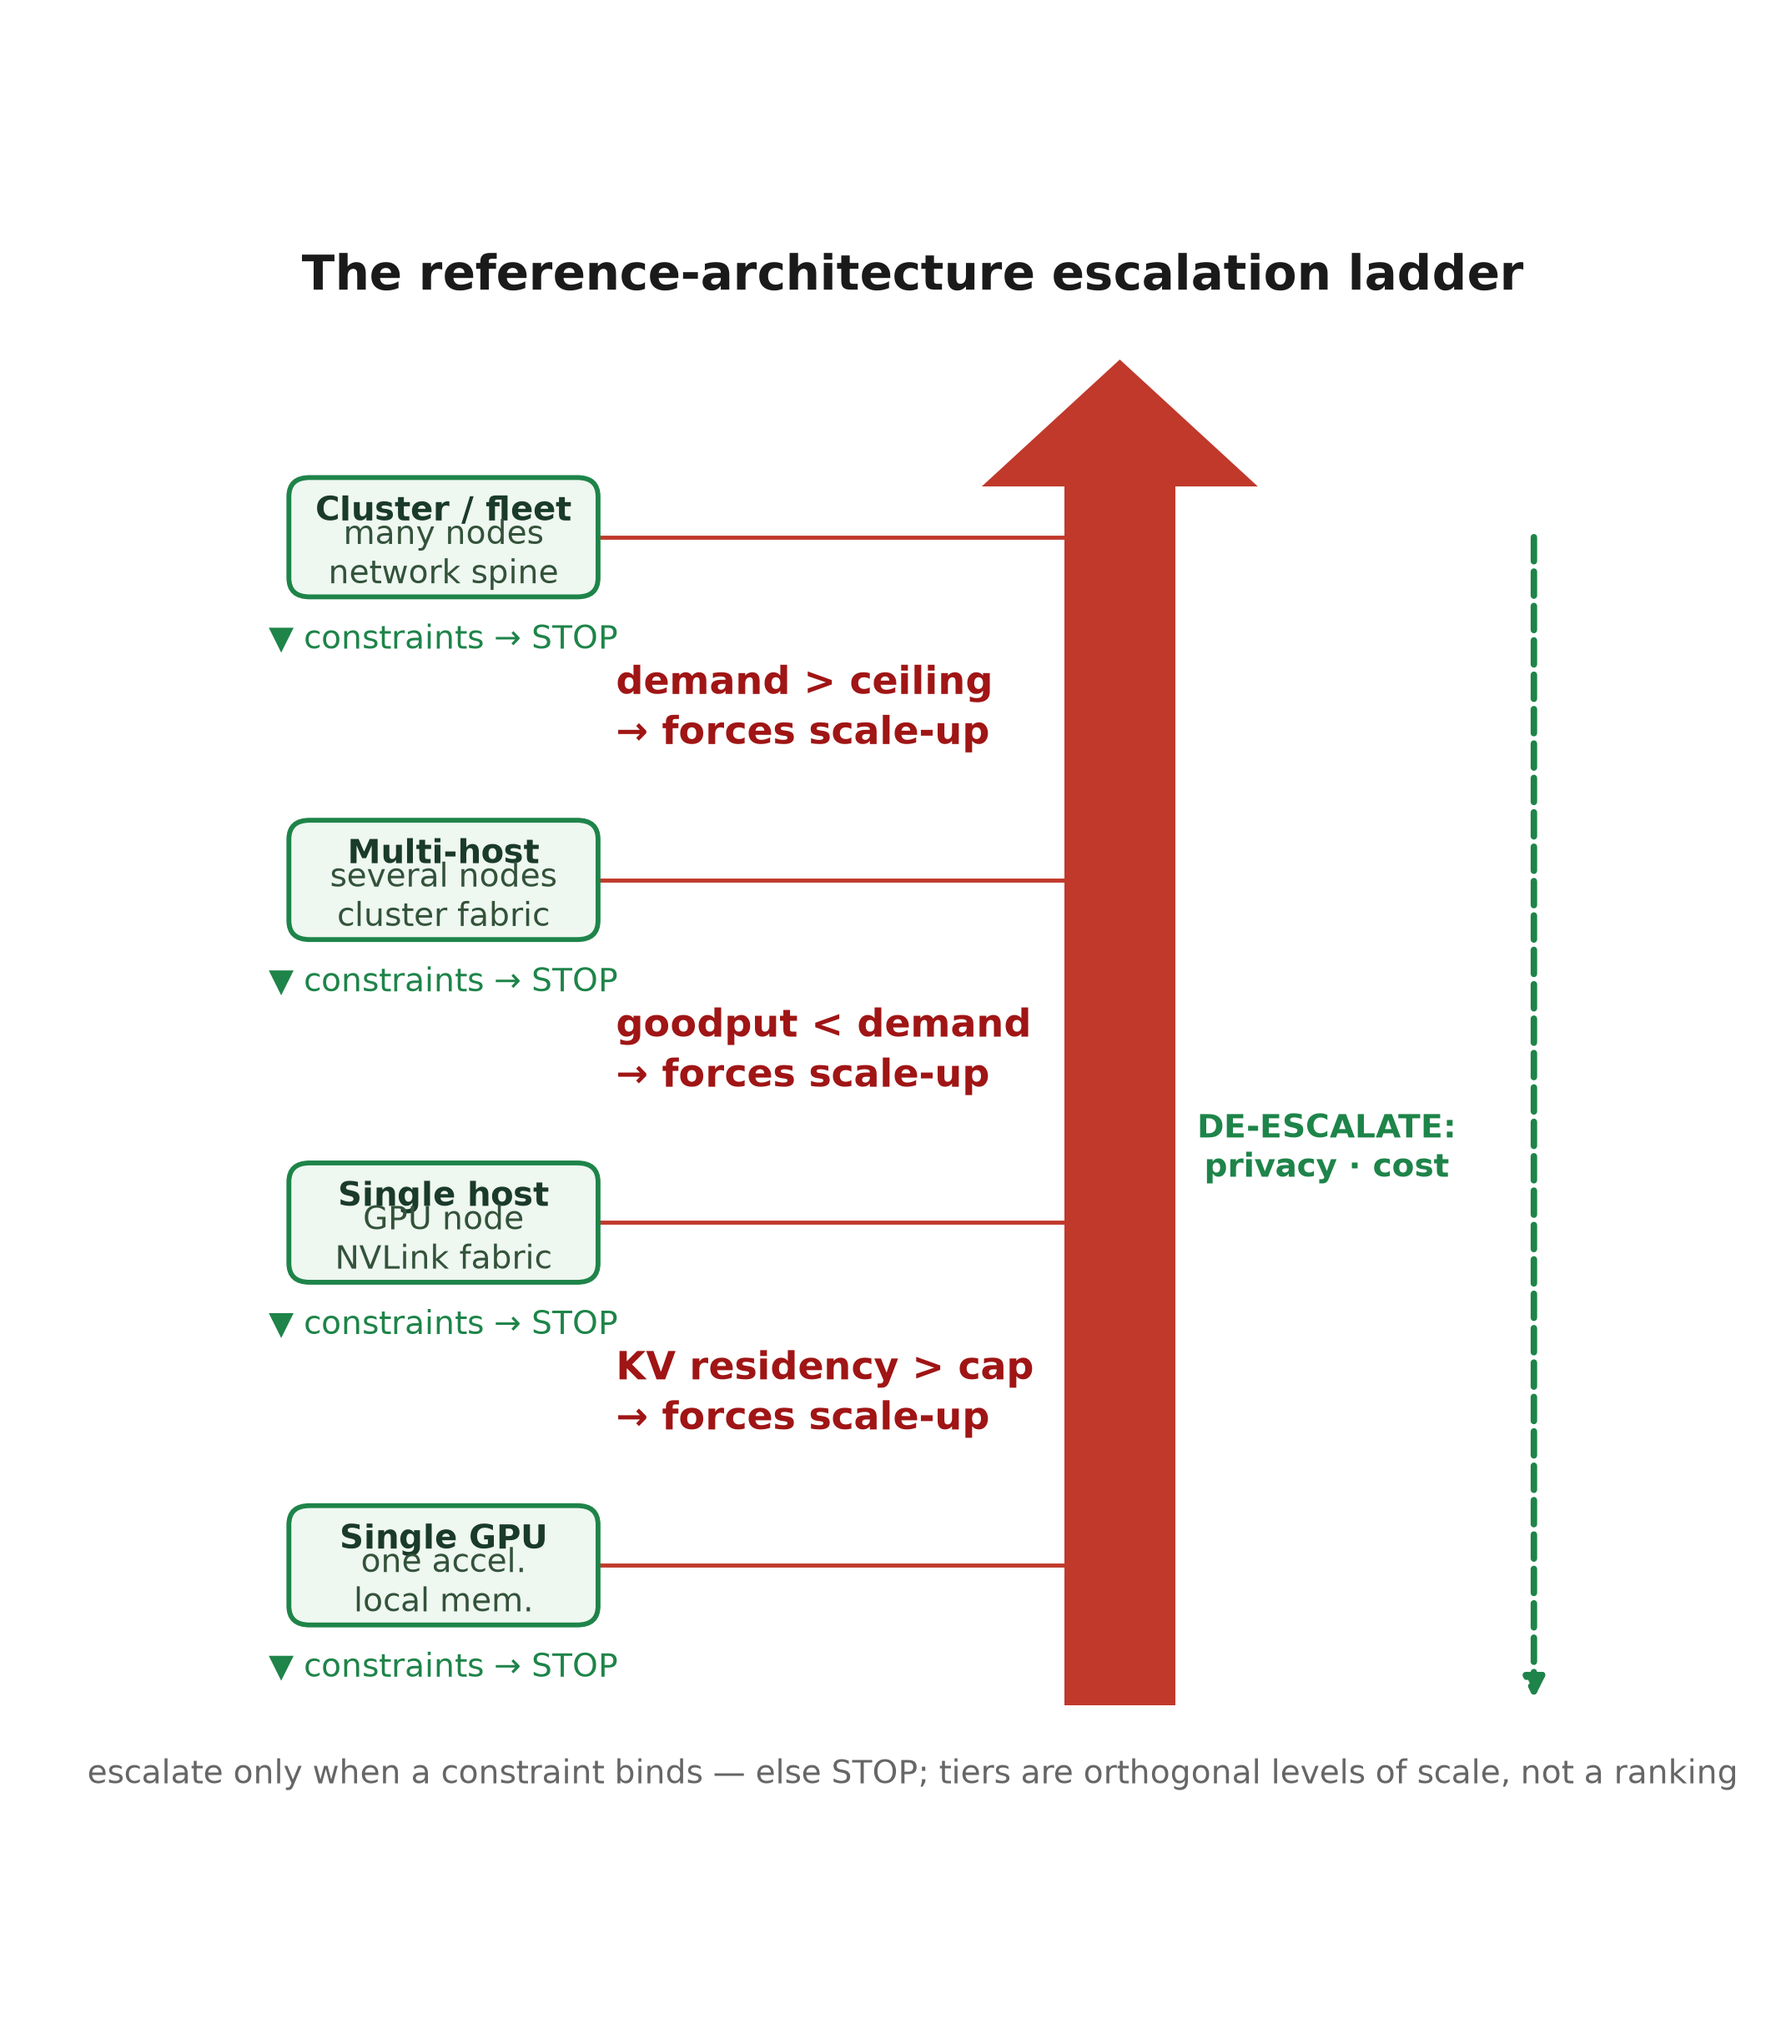
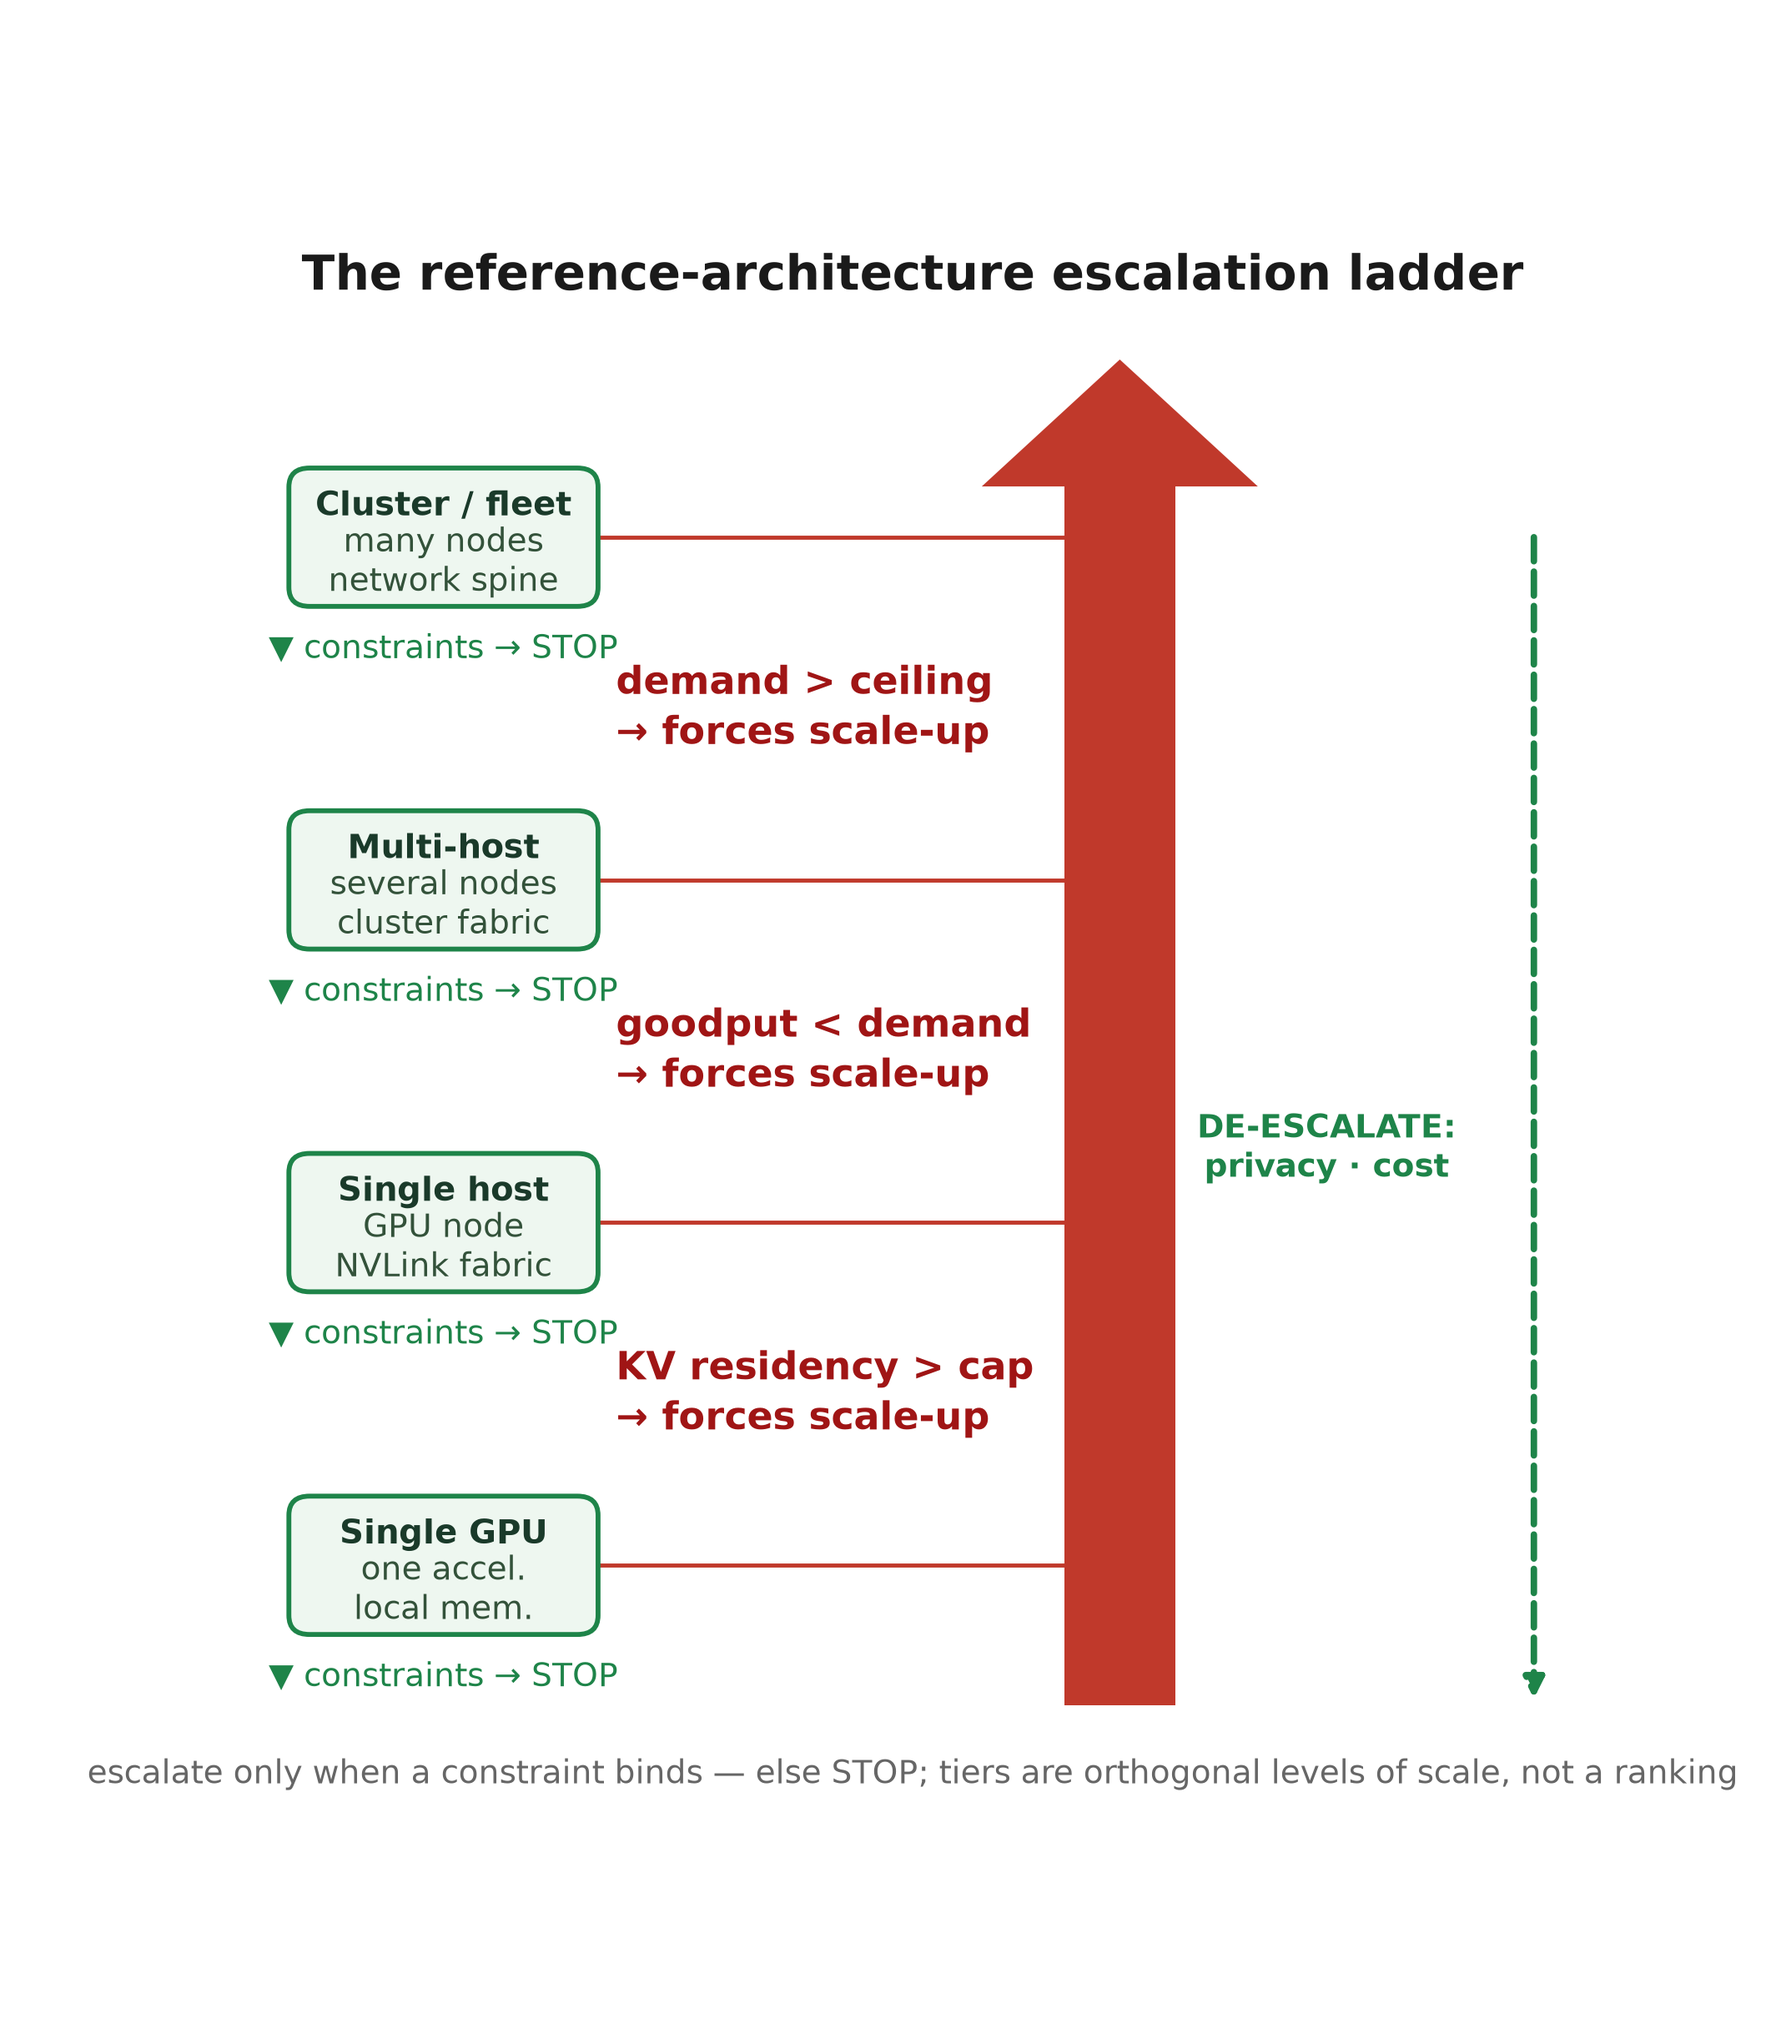
Fig 13.1: fix title-descender crowding on Single host / Single GPU cards
The bold titles 'Single host' and 'Single GPU' carry g/p descenders that
crowded the first subtitle line.  Increase card height 0.9 -> 1.05 and
recentre the text block (title y+0.24, subtitle y-0.20) so every card
has clean title-to-subtitle and subtitle-to-border spacing.  Verified
all four cards clear of overlaps; bottom-border clearance preserved.

diff --git a/render/fig_ch13_escalation.py b/render/fig_ch13_escalation.py
@@ -36,15 +36,15 @@ tiers = [
     ('Cluster / fleet', 'many nodes\nnetwork spine'),
 ]
 tier_y = [2.0, 4.7, 7.4, 10.1]
-bw, bh = 2.2, 0.9
+bw, bh = 2.2, 1.05
 tx = 0.5
 for (name, sub), y in zip(tiers, tier_y):
     ax.add_patch(FancyBboxPatch((tx, y - bh/2), bw, bh,
                                 boxstyle='round,pad=0.02,rounding_size=0.15',
                                 fc='#eef7f0', ec='#1e8449', lw=1.2))
-    ax.text(tx + bw/2, y + 0.20, name, ha='center', va='center',
+    ax.text(tx + bw/2, y + 0.24, name, ha='center', va='center',
             fontsize=8.2, fontweight='bold', color='#1a3a2a')
-    ax.text(tx + bw/2, y - 0.14, sub, ha='center', va='center',
+    ax.text(tx + bw/2, y - 0.20, sub, ha='center', va='center',
             fontsize=8.0, color='#33523a')
     # small STOP branch hanging off each rung (the escape at every level)
     ax.text(tx + bw/2, y - bh/2 - 0.36, '\u25bc constraints \u2192 STOP',
